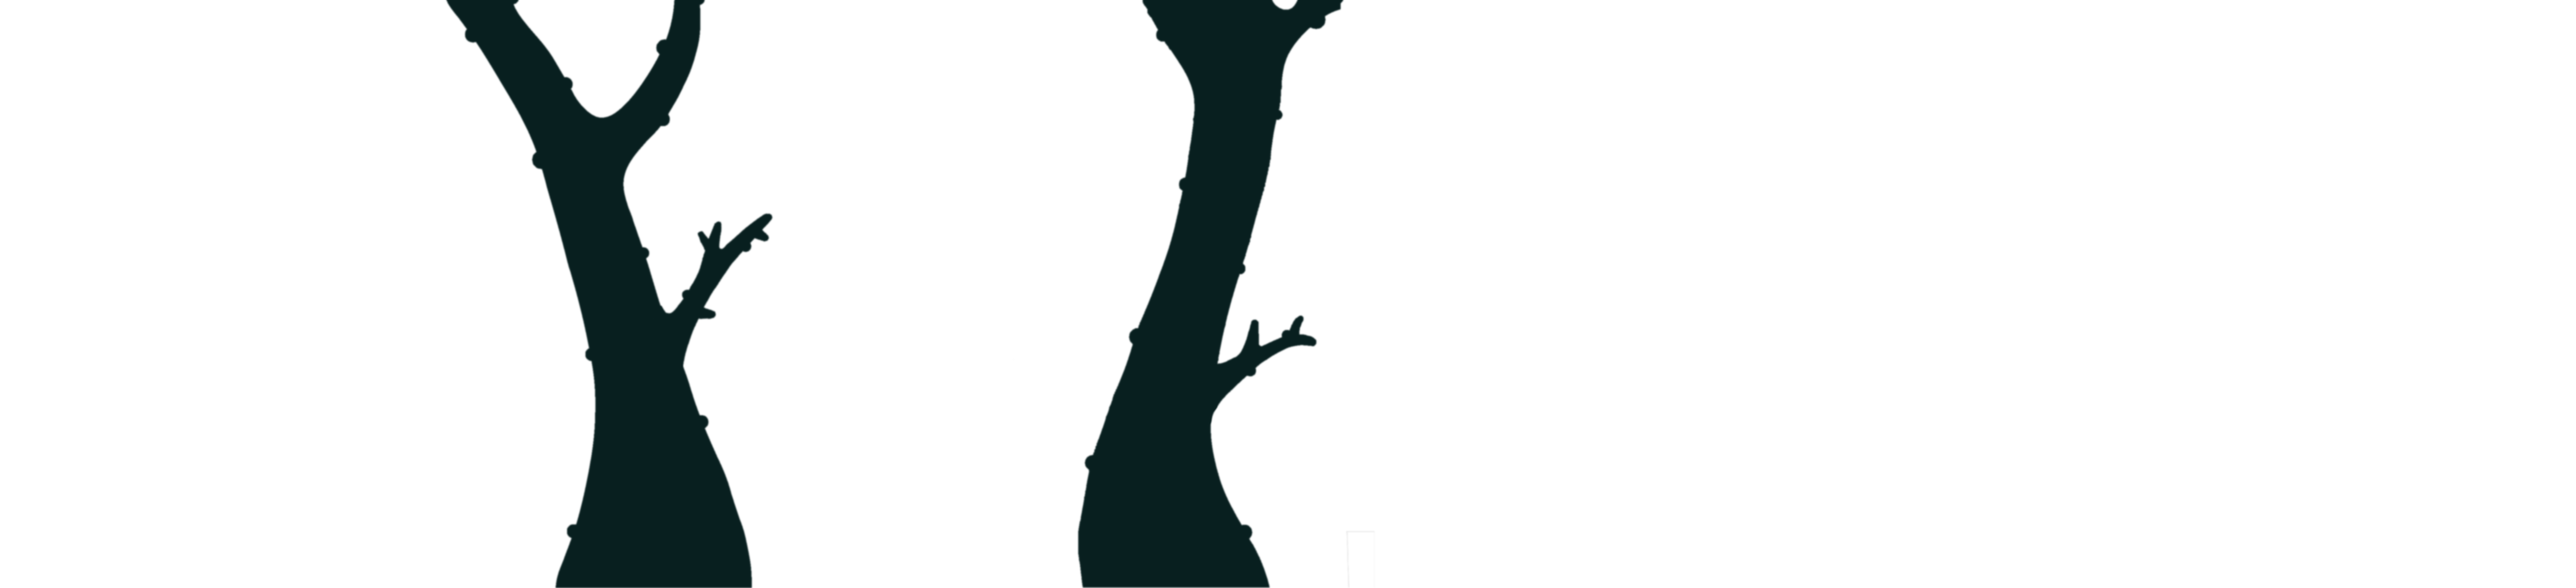
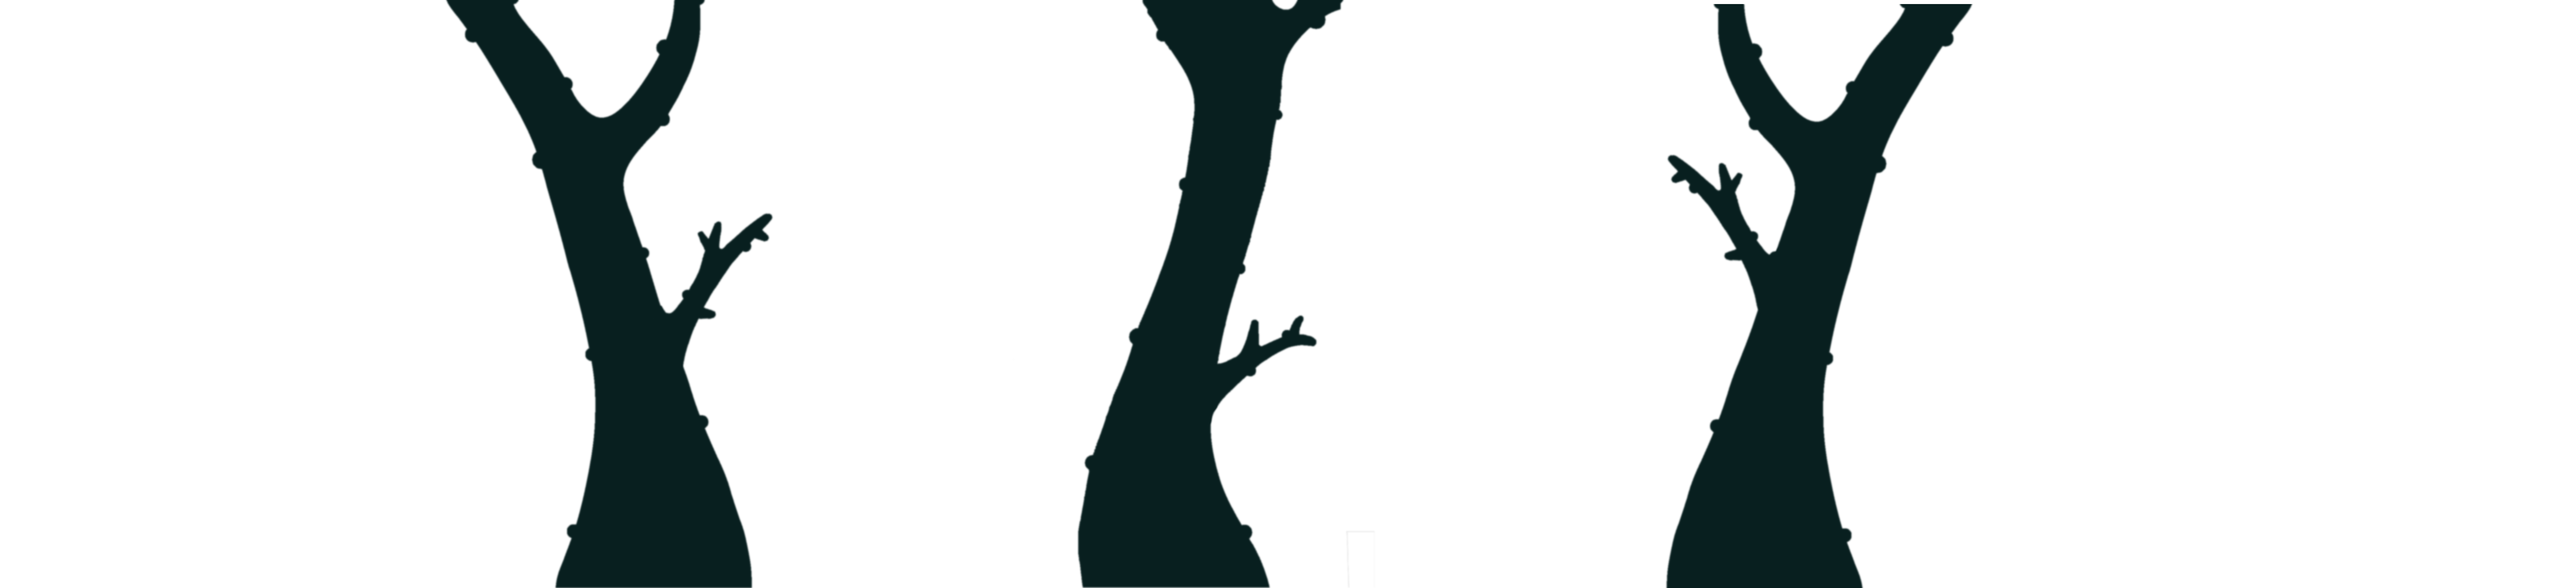
Art and Menu Changes
- added art to tutorial stage
- added controls state
- added credits state
- added some visual feedback on the buttons on the main menu
- move one text section over just a little bit

Changed region(s): [[0.6229, 0.0, 0.7786, 1.0]]

diff --git a/PlantGrowing/PlantGrowing/js/main.js b/PlantGrowing/PlantGrowing/js/main.js
@@ -170,27 +170,37 @@ MainMenu.prototype = {
 		game.world.setBounds(0, 0, game.width, game.height);
 		
 		//Adds instruction text
-		var text = game.add.text(game.world.centerX, 150, 'OverGrown', { fontSize: '64px', fill: '#000'});
+		var text = game.add.text(game.world.centerX, 150, 'OverGrown', { fontSize: '64px', fill: '#fff'});
 		text.addColor('#fff', 0);
 		text.anchor.set(0.5);
 
-		button = game.add.button(game.world.centerX, 350, 'platform', function(){fadeOut(1, 1, 'Tutorial');}, this, 2, 1, 0);
-		button.anchor.set(0.5);
-		button.scale.y = 2;
-		var text = game.add.text(game.world.centerX, 350, 'Play', { fontSize: '32px', fill: '#000' });
-		text.anchor.set(0.5);
+		var button1 = game.add.button(game.world.centerX, 350, 'platform', function(){fadeOut(1, 1, 'Tutorial');}, this, 2, 1, 0);
+		button1.anchor.set(0.5);
+		button1.scale.y = 2;
+
+		var text1 = game.add.text(game.world.centerX, 350, 'Play', { fontSize: '32px', fill: '#000' });
+		text1.anchor.set(0.5);
+		button1.onInputOver.add(function(){button1.scale.x = 1.15; text1.addColor('#f3f38c', 0);}, this);
+		button1.onInputOut.add(function(){button1.scale.x = 1; text1.addColor('#000', 0);}, this);
+    	button1.onInputUp.add(function(){button1.scale.x = 1.15; text1.addColor('#fff', 0);}, this);
 		
-		button = game.add.button(game.world.centerX, 450, 'platform', function(){fadeOut(1, 1, 'GamePlay');}, this, 2, 1, 0);
-		button.anchor.set(0.5);
-		button.scale.y = 2;
-		var text = game.add.text(game.world.centerX, 450, 'Controls', { fontSize: '32px', fill: '#000' });
-		text.anchor.set(0.5);
+		var button2 = game.add.button(game.world.centerX, 450, 'platform', function(){fadeOut(1, 1, 'Controls');}, this, 2, 1, 0);
+		button2.anchor.set(0.5);
+		button2.scale.y = 2;
+		var text2 = game.add.text(game.world.centerX, 450, 'Controls', { fontSize: '32px', fill: '#000' });
+		text2.anchor.set(0.5);
+		button2.onInputOver.add(function(){button2.scale.x = 1.15; text2.addColor('#f3f38c', 0);}, this);
+		button2.onInputOut.add(function(){button2.scale.x = 1; text2.addColor('#000', 0);}, this);
+    	button2.onInputUp.add(function(){button2.scale.x = 1.15; text2.addColor('#fff', 0);}, this);
 		
-		button = game.add.button(game.world.centerX, 550, 'platform', function(){fadeOut(1, 1, 'GamePlay');}, this, 2, 1, 0);
-		button.anchor.set(0.5);
-		button.scale.y = 2;
-		var text = game.add.text(game.world.centerX, 550, 'Credits', { fontSize: '32px', fill: '#000' });
-		text.anchor.set(0.5);
+		var button3 = game.add.button(game.world.centerX, 550, 'platform', function(){fadeOut(1, 1, 'Credits');}, this, 2, 1, 0);
+		button3.anchor.set(0.5);
+		button3.scale.y = 2;
+		var text3 = game.add.text(game.world.centerX, 550, 'Credits', { fontSize: '32px', fill: '#000' });
+		text3.anchor.set(0.5);
+		button3.onInputOver.add(function(){button3.scale.x = 1.15; text3.addColor('#f3f38c', 0);}, this);
+		button3.onInputOut.add(function(){button3.scale.x = 1; text3.addColor('#000', 0);}, this);
+    	button3.onInputUp.add(function(){button3.scale.x = 1.15; text3.addColor('#fff', 0);}, this);
 		
 
 		// //Adds instruction text
@@ -247,7 +257,7 @@ Tutorial.prototype = {
 	create: function(){
 		//sets game background color to navy blue
 		game.stage.backgroundColor = "#235347"; 
-		game.stage.backgroundColor = "#fff"; 
+		//game.stage.backgroundColor = "#fff"; 
 		
 		//enable arcade physics
 		game.physics.startSystem(Phaser.Physics.ARCADE);
@@ -255,8 +265,8 @@ Tutorial.prototype = {
 		//Set game world size to double the viewable area of the game
 		game.world.setBounds(0, 0, game.width*7, game.height*2);
 
-		//var tutfarground = game.add.sprite(0, 0, 'tutfarground');
-		//var tutbforeground = game.add.sprite(0, 0, 'tutbforeground');
+		var tutfarground = game.add.sprite(0, 0, 'tutfarground');
+		var tutbforeground = game.add.sprite(0, 0, 'tutbforeground');
 		// var tutforeground = game.add.sprite(0, 0, 'tutforeground');
 
 		//leaf background stuff
@@ -299,10 +309,10 @@ Tutorial.prototype = {
 		game.add.text(4260, game.world.height - 480	, 'Sometimes plant nodes are out of view.', { fontSize: '22px', fill: '#f3f38c' });
 		game.add.text(4260, game.world.height - 450	, 'You will need to grow while peeking to', { fontSize: '22px', fill: '#f3f38c' });
 		game.add.text(4260, game.world.height - 420	, 'use the plant node in the upper right!', { fontSize: '22px', fill: '#f3f38c' });
-		game.add.text(5600, game.world.height - 875	, 'Good job, now heres one last trick!', { fontSize: '22px', fill: '#f3f38c' });
-		game.add.text(5600, game.world.height - 825	, 'You can stand on something else, reset', { fontSize: '22px', fill: '#f3f38c' });
-		game.add.text(5600, game.world.height - 800	, 'a plant, and grow it in another direction', { fontSize: '22px', fill: '#f3f38c' });
-		game.add.text(5600, game.world.height - 775	, 'to progress! Try with the offscreen plant!', { fontSize: '22px', fill: '#f3f38c' });
+		game.add.text(5500, game.world.height - 875	, 'Good job, now heres one last trick!', { fontSize: '22px', fill: '#f3f38c' });
+		game.add.text(5500, game.world.height - 825	, 'You can stand on something else, reset', { fontSize: '22px', fill: '#f3f38c' });
+		game.add.text(5500, game.world.height - 800	, 'a plant, and grow it in another direction', { fontSize: '22px', fill: '#f3f38c' });
+		game.add.text(5500, game.world.height - 775	, 'to progress! Try with the offscreen plant!', { fontSize: '22px', fill: '#f3f38c' });
 		game.add.text(6750, game.world.height - 800, 'Good luck!', { fontSize: '22px', fill: '#f3f38c' });
 		
 		//makes the player object and adds it to its group
@@ -379,11 +389,14 @@ Tutorial.prototype = {
 		createLedge(6850, game.world.height - 532, 'platform', 1, 100);
 
 		//var tutforeground = game.add.sprite(0, 0, 'tutforeground');
+		//var tutplatforms = game.add.sprite(0, 0, 'tutplatforms');
+		var tutfloor = game.add.sprite(0, 0, 'tutfloor');
+		var plantlights = game.add.sprite(0, 0, 'tutplantlocations');
 
 		//Create the plants in positions modeled after the paper prototype(some modifications)
 		//addLightPulse(3550, game.world.height - 516);
 		createPlant(3600, game.world.height - 400);
-		createPlant(4795, game.world.height - 690);
+		createPlant(4810, game.world.height - 690);
 		createPlant(6220, game.world.height - 490);
 
 		//temp sprite to make it look like a pit at the botom of the screen
@@ -403,10 +416,6 @@ Tutorial.prototype = {
 		var exit = exits.create(7000, 1000, 'exit');
 		exit.body.immovable = true;
 		exit.anchor.set(0.5);
-
-		//var tutplatforms = game.add.sprite(0, 0, 'tutplatforms');
-		//var plantlocations = game.add.sprite(0, 0, 'tutplantlocations');
-		//var tutfloor = game.add.sprite(0, -192, 'tutfloor');
 
 		// //Tutorial Text
 		// var text = game.add.text(132, game.world.height-164, '(Left) A', { fontSize: '20px', fill: '#fff' });
@@ -994,8 +1003,8 @@ GamePlay.prototype = {
 var GameOver = function(game) {};
 GameOver.prototype = {
 	create: function(){
-		cameraReset();
-		game.world.setBounds(0, 0, game.width, game.height);
+		//cameraReset();
+		game.world.setBounds(0, 0, 1000, 800);
 		//sets main menu background color to a warm red
 		game.stage.backgroundColor = "#cd5c5c";
 
@@ -1018,7 +1027,66 @@ GameOver.prototype = {
 }
 
 // GAME OVER STATE END -----------------------------------------------------------------------------------------------
+// CONTROLS STATE -----------------------------------------------------------------------------------------------
 
+//Game over state
+var Controls = function(game) {};
+Controls.prototype = {
+	create: function(){
+		//cameraReset();
+		game.world.setBounds(0, 0, 1000, 800);
+		//sets main menu background color to a warm red
+		game.stage.backgroundColor = "#cd5c5c";
+
+		//cameraReset();
+		
+		//victory and instruction text
+		game.add.text(16, 16, 'Controls', { fontSize: '32px', fill: '#000' });
+		game.add.text(16, 68, 'Press space to restart.', { fontSize: '32px', fill: '#000' });
+		
+	},
+
+	update: function(){
+
+		if(spaceKey.isDown){
+				game.state.start('MainMenu', true, false, 0); //Starts the gameplay state if space is held down/pressed
+		}
+	
+	}
+
+}
+
+// GAME OVER STATE END -----------------------------------------------------------------------------------------------
+// CREDITS STATE -----------------------------------------------------------------------------------------------
+
+//Game over state
+var Credits = function(game) {};
+Credits.prototype = {
+	create: function(){
+		//cameraReset();
+		game.world.setBounds(0, 0, 1000, 800);
+		//sets main menu background color to a warm red
+		game.stage.backgroundColor = "#cd5c5c";
+
+		//cameraReset();
+		
+		//victory and instruction text
+		game.add.text(16, 16, 'Credits', { fontSize: '32px', fill: '#000' });
+		game.add.text(16, 68, 'Press space to restart.', { fontSize: '32px', fill: '#000' });
+		
+	},
+
+	update: function(){
+
+		if(spaceKey.isDown){
+				game.state.start('MainMenu', true, false, 0); //Starts the gameplay state if space is held down/pressed
+		}
+	
+	}
+
+}
+
+// GAME OVER STATE END -----------------------------------------------------------------------------------------------
 
 
 //Global Functions (Might be made local later if only 1 large level is made)
@@ -1076,9 +1144,9 @@ function identifyPlantGroup(plantGroup){
 		    plantEmitter.makeParticles('particle');
 
 		    plantEmitter.setRotation(0, 0);
-		    plantEmitter.maxParticleScale = 0.23;
-		    plantEmitter.minParticleScale = 0.10;
-		    plantEmitter.setAlpha(0.1,0.45);
+		    plantEmitter.maxParticleScale = 0.35;
+		    plantEmitter.minParticleScale = 0.15;
+		    plantEmitter.setAlpha(0.15,0.45);
 		    plantEmitter.tint = 0xFFFF00;
 		    plantEmitter.gravity = -120;
 
@@ -1440,4 +1508,6 @@ game.state.add('MainMenu', MainMenu);
 game.state.add('GamePlay', GamePlay);
 game.state.add('GameOver', GameOver);
 game.state.add('Tutorial', Tutorial);
+game.state.add('Controls', Controls);
+game.state.add('Credits', Credits);
 game.state.start('MainMenu');
